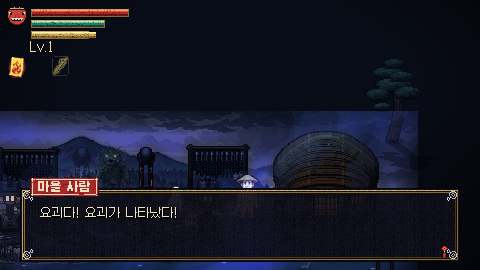
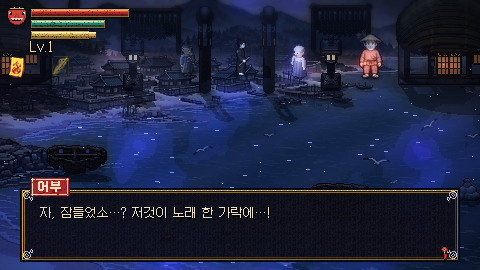
qa: B03 수정 확인

diff --git a/production/qa/playtests/2026-10-12-user-playtest-ch1.md b/production/qa/playtests/2026-10-12-user-playtest-ch1.md
@@ -23,4 +23,5 @@
 ## 재검증 (2026-10-12 19:55, deploy/integ-local 병합 후, 에셋 임포트 완료)
 - B02: [수정 확인] 시작 지점에서 위 홀드 -> y=76 정지, 오른쪽+위 홀드 후에도 y=60에서 막힘(이전 y=-76 이탈 없음). shots/b02_right.png (마을 윗길 앞에서 정지, 플레이어 화면 안).
 - 참고: --import 없이 실행하면 새 UI 아이콘(tal_fire/item_mask/key_flute.png) 'No loader found' 오류 - 클린 체크아웃 후 import 필수(플레이어 영향은 import된 빌드에선 없음).
-- B03: [재검증 진행 중, 20:0x] 피리 획득 후 개귀가 (334,16)(마을 윗쪽)로 이동해 자리잡음. 대화 확인 후 auto 전투로 en=0(정화) 됐으나 정화 직후 flags에 beach_done 미확인 - 결과 대기(아래 갱신). 주의: 대사 중 텔레포트는 테스트 인공물이라 무효 처리.
+- B03: [수정 확인] 피리 획득 -> 대사 넘김 -> 개귀(트리거 밟기 전) 정화 -> 어부 대사('저것이 노래 한 가락에…!') -> flags beach_done+arrived, 경주(gyeongju)로 이동(f=2786). shots/b03_b.png, b03_c.png. 소프트락 재발 없음.
+- B01: 이번 빌드에서 미재검증(경주 게시판). terrain-collision(3ed543f) 병합 빌드에서 B01~B03+6맵 보행 점검 예정(대기).
